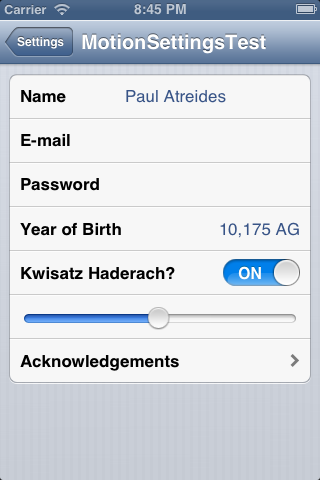
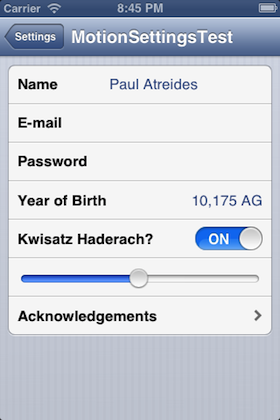
Resize screenshots to 280px, not 280%

diff --git a/lib/motion-settings-bundle/version.rb b/lib/motion-settings-bundle/version.rb
@@ -1,5 +1,5 @@
 module Motion
   module SettingsBundle
-    VERSION = "0.1.0"
+    VERSION = "0.1.1"
   end
 end
